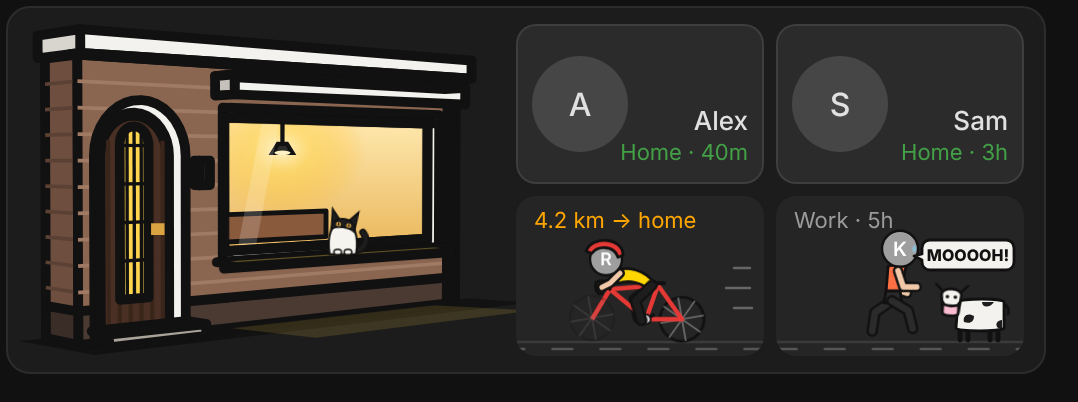
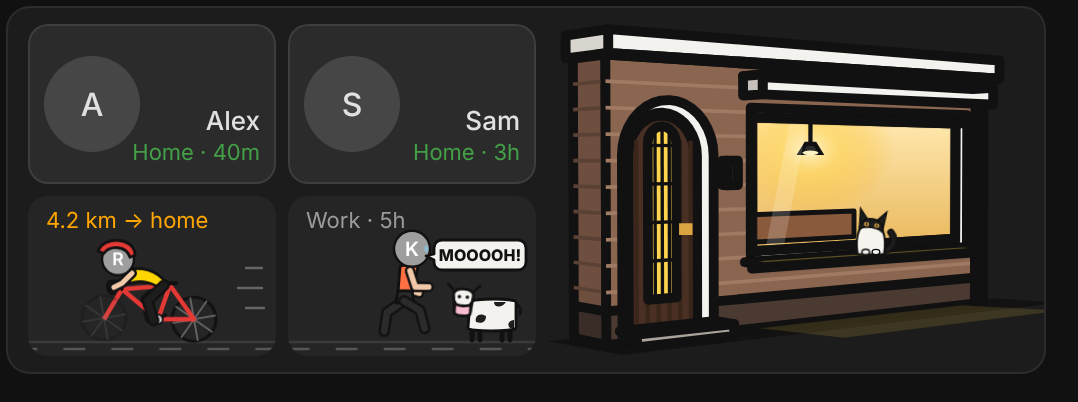
Mirror the card: house on the right, people on the left (v0.6.0)
house: left brings back the old layout.

Claude-Session: https://claude.ai/code/session_017BEvUqD2Nhopqui1iVfB5s

diff --git a/streetview-house.js b/streetview-house.js
@@ -17,7 +17,7 @@
 // Everything sits in one block so the top-level names cannot clash with the
 // sister cards when the files are loaded as classic scripts.
 {
-const VERSION = "0.5.1";
+const VERSION = "0.6.0";
 
 const SV_HOLD_MS = 500;
 const SV_MOVE_PX = 8;
@@ -32,6 +32,8 @@ const SV_PERSON_KEYS = ["entity", "name", "portrait", "height", "distance", "dir
 const SV_PERSON_ROLES = ["distance", "direction"];
 
 const SV_CAT_DEFAULT = 30; // % of the quarter hours the cat visits while someone is home (twice that when nobody is)
+
+const SV_HOUSE_DEFAULT = "right";
 
 const SV_DEFAULTS = {
   cat: true,
@@ -238,6 +240,8 @@ const SV_STYLE = `
   ha-card {
     height: 100%; box-sizing: border-box; overflow: hidden; display: flex; align-items: stretch;
     padding: 0 var(--sv-pad, 10px) 0 0;
+  }
+  ha-card.house-right { flex-direction: row-reverse; padding: 0 0 0 var(--sv-pad, 10px);
     user-select: none; -webkit-user-select: none; -webkit-tap-highlight-color: transparent;
   }
   .pic { flex: none; width: 50%; height: 100%; }
@@ -517,10 +521,10 @@ class StreetviewHouse extends HTMLElement {
 
   setConfig(config) {
     const c = config || {};
-    const known = ["type", "people", "entities", "cat", "tap_action", "hold_action",
+    const known = ["type", "people", "entities", "cat", "house", "tap_action", "hold_action",
       "grid_options", "layout_options", "view_layout", "visibility", "card_mod"];
     for (const k of Object.keys(c)) {
-      if (!known.includes(k)) throw new Error(`Unknown option '${k}'. Known: ${known.slice(1, 6).join(", ")}`);
+      if (!known.includes(k)) throw new Error(`Unknown option '${k}'. Known: ${known.slice(1, 7).join(", ")}`);
     }
     // people: a list; without one the card follows the person entities in Home Assistant
     let list = [];
@@ -562,6 +566,7 @@ class StreetviewHouse extends HTMLElement {
     if (c.cat != null && typeof c.cat !== "boolean" && !(typeof c.cat === "number" && c.cat >= 0 && c.cat <= 100)) {
       throw new Error("cat must be true, false or a number from 0 to 100 (how often it visits, in %)");
     }
+    if (c.house != null && !["left", "right"].includes(c.house)) throw new Error("house must be left or right");
     for (const k of ["tap_action", "hold_action"]) {
       if (c[k] != null && (typeof c[k] !== "object" || Array.isArray(c[k]) || !c[k].action)) {
         throw new Error(`${k} must be an action, e.g. action: more-info`);
@@ -573,6 +578,8 @@ class StreetviewHouse extends HTMLElement {
       entities: { ...SV_DEFAULTS.entities, ...ent },
       // how often the cat visits: % of the quarter hours while someone is home
       cat: c.cat == null || c.cat === true ? SV_CAT_DEFAULT : c.cat === false ? 0 : c.cat,
+      // which half the house takes; the tiles take the other (default since v0.6.0: right)
+      house: c.house || SV_HOUSE_DEFAULT,
       tap_action: c.tap_action || { action: "more-info" },
       hold_action: c.hold_action || { action: "none" },
     };
@@ -655,8 +662,8 @@ class StreetviewHouse extends HTMLElement {
     if (this._ro) { this._ro.disconnect(); this._ro = null; }
     this.shadowRoot.innerHTML = `
       <style>${SV_STYLE}${SV_AWAY_STYLE}</style>
-      <ha-card>
-        <div class="pic" role="img"><svg xmlns="http://www.w3.org/2000/svg" preserveAspectRatio="xMinYMid meet"></svg></div>
+      <ha-card class="house-${this._config.house}">
+        <div class="pic" role="img"><svg xmlns="http://www.w3.org/2000/svg" preserveAspectRatio="${this._config.house === "right" ? "xMaxYMid" : "xMinYMid"} meet"></svg></div>
         <div class="tiles"></div>
       </ha-card>`;
     const $ = (s) => this.shadowRoot.querySelector(s);
@@ -898,6 +905,7 @@ const SV_EDITOR_SCHEMA = [
       { name: "door_light", selector: { entity: { domain: ["light", "switch"] } } },
     ],
   },
+  { name: "house", selector: { select: { mode: "dropdown", options: [{ value: "right", label: "Right, people on the left" }, { value: "left", label: "Left, people on the right" }] } } },
   { name: "cat", selector: { number: { min: 0, max: 100, step: 5, mode: "slider", unit_of_measurement: "%" } } },
   {
     type: "expandable",
@@ -921,6 +929,7 @@ const SV_EDITOR_LABELS = {
   direction: "Direction of travel",
   room_light: "Room light (empty: on while anyone is home)",
   door_light: "Door light (empty: on while anyone is home)",
+  house: "House",
   cat: "Cat visits (% of the time while someone is home; 0: no cat, 100: always)",
   tap_action: "Tap action (tile)",
   hold_action: "Hold action (tile)",
@@ -946,6 +955,7 @@ class StreetviewHouseEditor extends HTMLElement {
     const ent = config.entities || {};
     data.entities = {};
     for (const role of Object.keys(SV_DEFAULTS.entities)) data.entities[role] = (role in ent ? ent[role] : SV_DEFAULTS.entities[role]) || "";
+    data.house = config.house || SV_HOUSE_DEFAULT;
     data.cat = config.cat == null || config.cat === true ? SV_CAT_DEFAULT : config.cat === false ? 0 : svNum(config.cat);
     data.tap_action = config.tap_action;
     data.hold_action = config.hold_action;
@@ -956,7 +966,7 @@ class StreetviewHouseEditor extends HTMLElement {
      no person at all: no people list (the card follows the person entities in Home Assistant). */
   static toConfig(data, previous, hass) {
     const config = { type: "custom:streetview-house" };
-    const handled = ["type", "people", "entities", "cat", "tap_action", "hold_action"];
+    const handled = ["type", "people", "entities", "cat", "house", "tap_action", "hold_action"];
     for (const [k, v] of Object.entries(previous || {})) if (!handled.includes(k)) config[k] = v;
 
     const people = [];
@@ -984,6 +994,7 @@ class StreetviewHouseEditor extends HTMLElement {
       if (v !== def) entities[role] = v;
     }
     if (Object.keys(entities).length) config.entities = entities;
+    if (data.house && data.house !== SV_HOUSE_DEFAULT) config.house = data.house;
     const cat = svNum(data.cat);
     if (cat === 0) config.cat = false;
     else if (cat != null && cat !== SV_CAT_DEFAULT) config.cat = cat;

diff --git a/tests/streetview-house.test.js b/tests/streetview-house.test.js
@@ -218,7 +218,11 @@ test("the picture: a wider half makes the house longer, a narrow one shows it wh
   const wide = vb();
   assert(Math.abs(wide[2] / wide[3] - 320 / 184) < 0.08, `fills the half: ${wide[2] / wide[3]}`);
   assert(wide[2] > narrow[2] && Math.abs(wide[0] - narrow[0]) < 0.01, "grows to the right, the corner stays");
-  assert.strictEqual(c.shadowRoot.querySelector("svg").getAttribute("preserveAspectRatio"), "xMinYMid meet", "never cropped");
+  assert.strictEqual(c.shadowRoot.querySelector("svg").getAttribute("preserveAspectRatio"), "xMaxYMid meet", "never cropped, against the card's right edge");
+  assert(c._el.card.classList.contains("house-right"), "house on the right by default, people on the left");
+  const left = render(states(), { house: "left" });
+  assert(left._el.card.classList.contains("house-left"));
+  assert.strictEqual(left._el.svg.getAttribute("preserveAspectRatio"), "xMinYMid meet");
 });
 
 test("own people list: no built-in defaults, null switches a role off", () => {
@@ -341,6 +345,7 @@ test("config errors", () => {
     [{ people: [{ entity: "person.a", battery: "sensor.x" }] }, /unknown key 'battery'/],
     [{ cat: "yes" }, /cat must be true, false or a number/],
     [{ cat: 150 }, /cat must be true, false or a number/],
+    [{ house: "top" }, /house must be left or right/],
     [{ people: [{ entity: "person.alex", away: "skydiving" }] }, /away must be one of race_bike, running, shopping, soccer/],
     [{ tap_action: "more-info" }, /tap_action must be an action/],
   ];
@@ -399,6 +404,10 @@ test("editor: changes are written as the smallest config, and every written conf
   assert.strictEqual(ad.person_1.away, "soccer");
   assert.strictEqual(ad.person_2.away, "", "no activity: empty");
   same(Editor.toConfig(ad, act), act, "away round trip");
+  const h = Editor.toData({ type: "custom:streetview-house" });
+  assert.strictEqual(h.house, "right");
+  h.house = "left";
+  same(Editor.toConfig(h, { type: "custom:streetview-house" }), { type: "custom:streetview-house", house: "left" });
   const often = Editor.toData({ type: "custom:streetview-house", cat: 80 });
   assert.strictEqual(often.cat, 80);
   same(Editor.toConfig(often, { type: "custom:streetview-house" }), { type: "custom:streetview-house", cat: 80 });

diff --git a/CLAUDE.md b/CLAUDE.md
@@ -18,7 +18,7 @@ Marketplace (formerly HACS) dashboard card (Lovelace) for the people in the owne
 
 * **Nothing about the owner's household in this repo:** no names, entity ids, portrait file names or photos, not in code, tests, examples or docs. The owner's people list lives in their dashboard config. Examples and tests use made-up people (Alex, Sam, Robin, Kim). Portraits live on the user's Home Assistant (`/config/www/streetview-house/`, cut out, transparent, about 360 px wide). Screenshots for the README use plain figures.
 * Without `people` the card follows the first four `person.*` entities in `hass.states`, sorted by entity id (`_autoPeople`), with the per-person defaults: no portrait, no proximity. `svAutoPeople` caches per `hass.entities` object (the registry), so the state scan only reruns when the registry changes; `setConfig` fills the list at once when hass is already set.
-* Layout (v0.4.0, the owner's choice after the Gardenview card): the house on the left half, a tile per person on the right (2 x 2, same place whether home or not). No phone badges. Nobody stands in the window. No house number on the wall.
+* Layout (v0.4.0, the owner's choice after the Gardenview card; mirrored in v0.6.0): the house on the right half, a tile per person on the left (`house: left` swaps them; `ha-card.house-right` is `row-reverse`, the picture anchors `xMaxYMid` so it sits against the card's edge; the drawing itself is not mirrored, still seen from the left) (2 x 2, same place whether home or not). No phone badges. Nobody stands in the window. No house number on the wall.
 * Read only: no service calls. Taps on a tile (and Enter on a focused tile) go through `hass-action` with the person as entity (more-info by default; hold none); the picture does nothing.
 * Presence: `home` is home; any other state except unknown/unavailable is away (zone names shown as they are); unknown/unavailable (no tracker) shows "Unknown". Since texts are compact: 40m, 3h, 2d.
 * Tiles: home shows the portrait cut out from the bottom of the tile (the entity_picture in a circle, else the initial) and "Home · 40m" in green; no name when a picture shows (owner: the picture is enough), the name only with an initial; away shows no photo (owner dropped the grey look), a pin, place and since, unless `away` is set: then (away or unknown) `svAway` draws an animated figure with their face (portrait, entity_picture, else initial) in a 122 x 80 viewBox (`xMidYMax meet`), status on top, never a name (no room above the figure; the tooltip has it); coming home shows the distance in orange. `height` scales the portrait in its tile. Under 200 px wide (container query) the face sits on top, name and status centred below.

diff --git a/README.md b/README.md
@@ -55,6 +55,7 @@ entities:
 | `people` | the first four `person` entities | list of up to 4 (four tiles); a plain entity id is enough |
 | `entities.room_light` | none | light or switch of the room behind the window; none: on while anyone is home |
 | `entities.door_light` | none | the hall light behind the door window; none: on while anyone is home |
+| `house` | `right` | which half the house takes: `right` (people on the left) or `left` (people on the right) |
 | `cat` | `true` (30) | how often the cat visits: a number from 0 to 100, the % of quarter hours it is there while someone is home (twice that when nobody is, at most always). `100`: always there; `false` or `0`: no cat |
 | `tap_action` | more-info | for the person whose tile is tapped |
 | `hold_action` | none | |
@@ -99,7 +100,7 @@ Coming home turns the figure towards home. Under reduced motion the figures stan
 
 ## Layout
 
-12 columns by 3 rows (184 px) by default. The house takes the left half, the tiles the right half in a 2 by 2 grid. On a wide card the house gets a longer front window; on a narrow one it is drawn smaller, never cropped, and the tiles put the face on top with the name below. All animations (the cat, the door light, the reflection sliding over the glass) stop under reduced motion; the cat then just sits on the sill.
+12 columns by 3 rows (184 px) by default. The house takes the right half, the tiles the left half in a 2 by 2 grid (`house: left` swaps them). On a wide card the house gets a longer front window; on a narrow one it is drawn smaller, never cropped, and the tiles put the face on top with the name below. All animations (the cat, the door light, the reflection sliding over the glass) stop under reduced motion; the cat then just sits on the sill.
 
 ## License
 

diff --git a/CHANGELOG.md b/CHANGELOG.md
@@ -1,5 +1,9 @@
 # Changelog
 
+## v0.6.0
+
+* The card is mirrored: the house now sits on the right half and the people on the left. New option `house: left` brings back the old layout (also in the visual editor). The drawing itself is not mirrored.
+
 ## v0.5.1
 
 * Someone whose state is unknown (no tracker, phone off) now gets their away animation too, with "Unknown" on top, when `away` is set.
